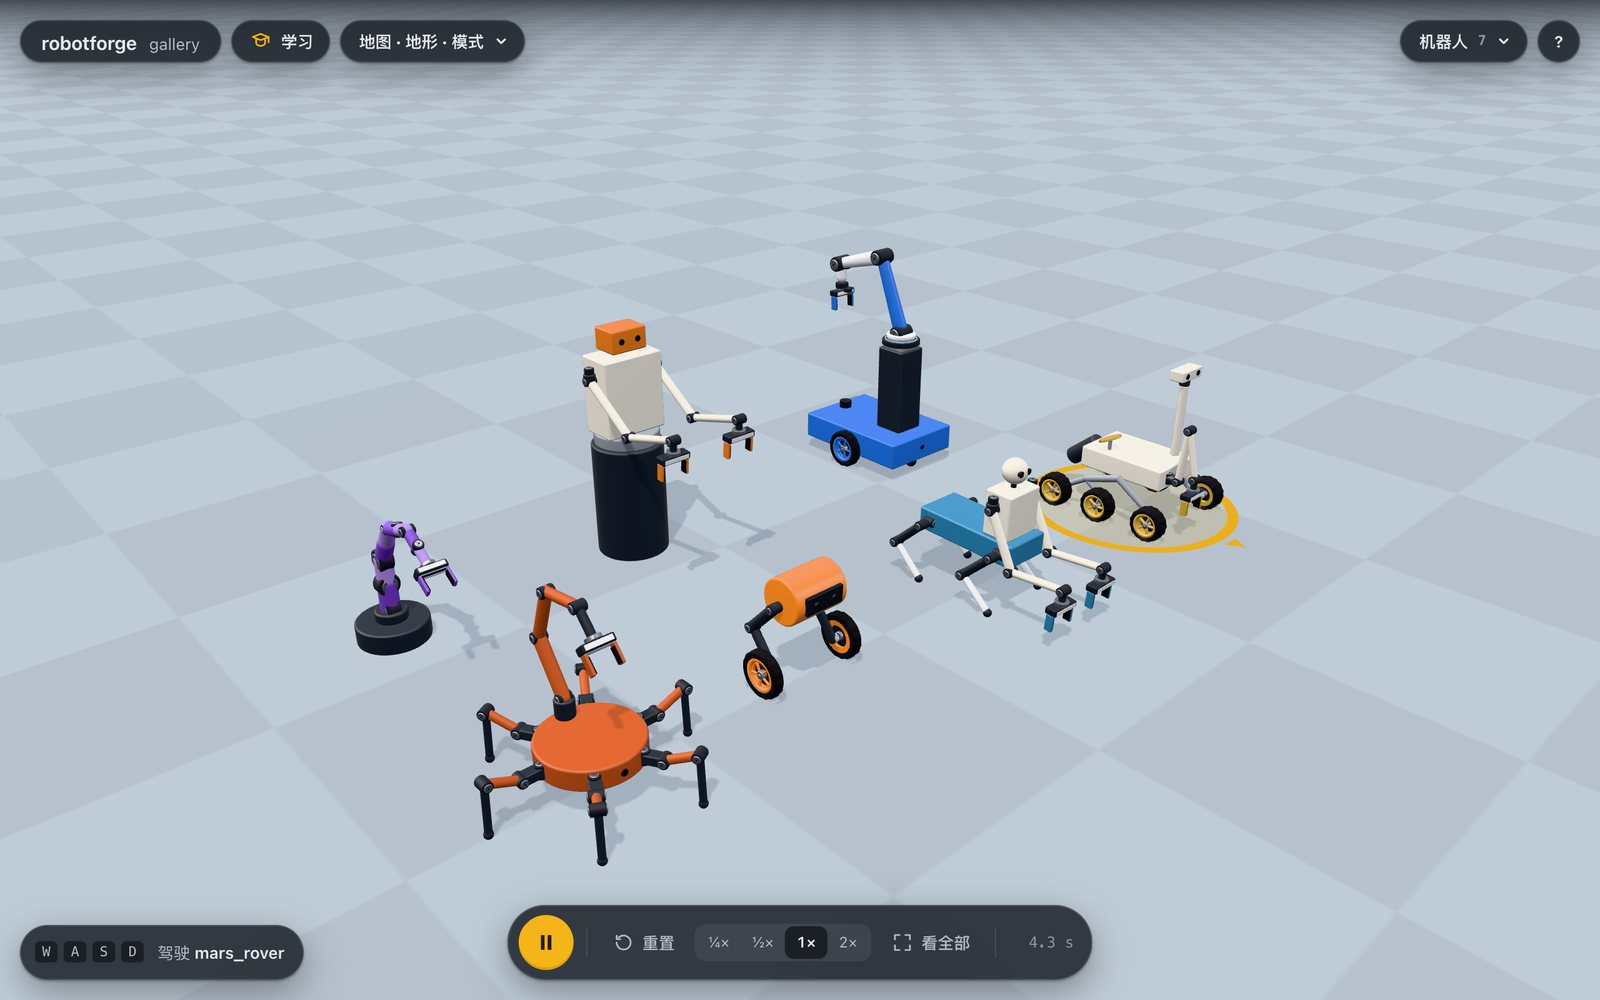
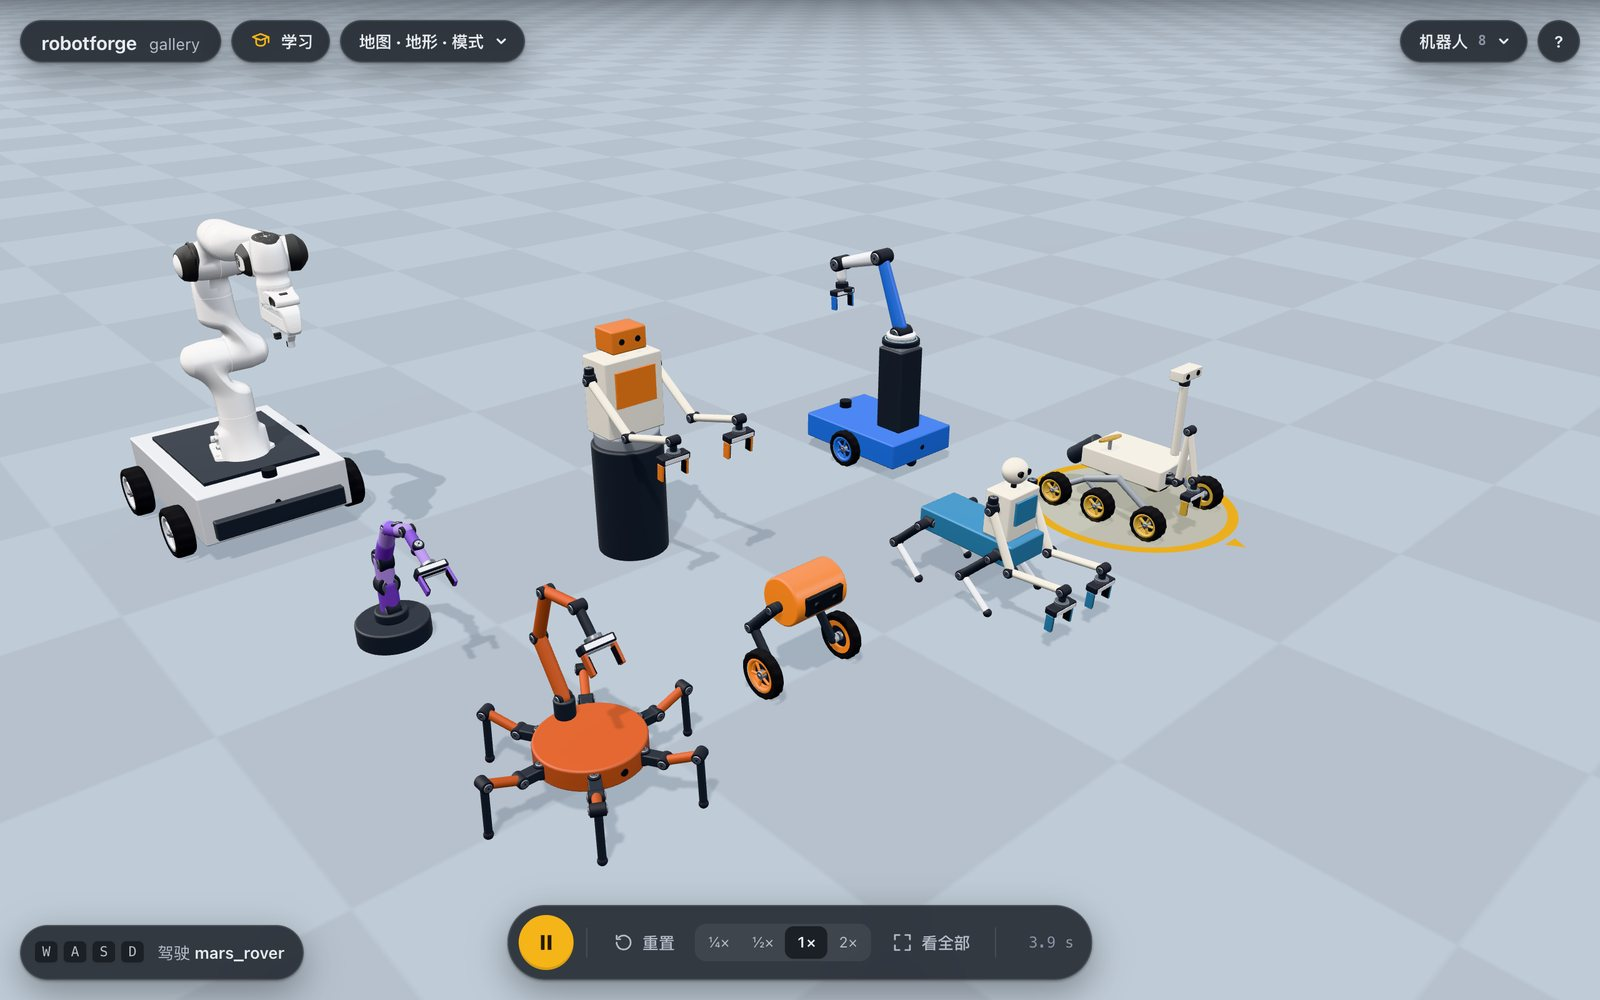
feat(gallery): a real Franka Panda on a heavy four-wheel base
The classic research mobile manipulator, spliced from a real arm and a built base: Menagerie's
Panda (Apache-2.0) bolted to a 40 kg four-wheel base with a bumper and a deck, whose geared
wheels hold it still while the 17 kg arm swings. It drives 1.65 m in 4 s at 0.4 m/s and picks a
cube off the floor onto a 0.45 m table, the only design that reaches both. Ten designs now; the
docs, the README and the overview picture say so.

diff --git a/src/robotforge/design/gallery/wheeled.py b/src/robotforge/design/gallery/wheeled.py
@@ -137,6 +137,54 @@ def lift_picker() -> dict[str, Any]:
     }
 
 
+def mobile_panda() -> dict[str, Any]:
+    """A research mobile manipulator: a real Franka Emika Panda (Menagerie, Apache-2.0) bolted to a heavy four-wheel
+    base, as labs mount it on a Ridgeback or a Husky.
+
+    The arm weighs about 17 kg and reaches 0.85 m, so the base is low and heavy (40 kg of batteries) and its geared
+    wheels hold it still while the arm swings. The Panda starts in Menagerie's own ready pose, gripper down in front.
+    """
+    wheel = {"shape": "wheel", "size": [0.16, 0.06], "actuator": {"model": "jga25", "gear": 4}}
+    return {
+        "color": "#d4d7dc",
+        "motor": "jga25",
+        "base": {
+            "shape": "box",
+            "size": [0.66, 0.46, 0.16],
+            "mass": 40.0,
+            "sensors": [
+                "imu",
+                {"type": "lidar", "at": [0.3, 0, 0.08], "rays": 24},
+                {"type": "camera", "at": "front"},
+            ],
+        },
+        "parts": [
+            {"name": "left_front_wheel", "at": [0.2, 0.27, -0.06], "mirror": True, **wheel},
+            {"name": "left_rear_wheel", "at": [-0.2, 0.27, -0.06], "mirror": True, **wheel},
+            {
+                "name": "bumper",
+                "at": "front",
+                "joint": "fixed",
+                "shape": "box",
+                "size": [0.03, 0.4, 0.06],
+                "direction": "forward",
+                "offset": [0, 0, -0.03],
+                "color": GRAPHITE,
+            },
+            {
+                "name": "deck",
+                "at": "top",
+                "joint": "fixed",
+                "shape": "box",
+                "size": [0.5, 0.36, 0.012],
+                "direction": "up",
+                "color": GRAPHITE,
+            },
+            {"name": "arm", "parent": "deck", "at": "end", "shift": [0.1, 0, 0], "robot": {"library": "panda"}},
+        ],
+    }
+
+
 def mars_rover() -> dict[str, Any]:
     """Six wheels on a rocker-bogie, like the Mars rovers: each side's rocker and bogie pivot freely, so all six wheels
     keep the ground over rocks and steps. A camera mast with a pan-tilt head and a small arm ride on the deck.
@@ -377,6 +425,12 @@ DESIGNS = [
         "driving base with a lifting column and an arm with a gripper: move drives it; pick_and_place raises the "
         "column as it needs to, so it picks off the floor or a table",
         lift_picker,
+    ),
+    Design(
+        "mobile_panda",
+        "a real Franka Emika Panda arm (MuJoCo Menagerie, downloaded on first use) on a heavy four-wheel base: "
+        "move drives it, move_arm and pick_and_place work mobile_panda/arm",
+        mobile_panda,
     ),
     Design(
         "mars_rover",

diff --git a/tests/test_gallery.py b/tests/test_gallery.py
@@ -186,6 +186,19 @@ def test_the_lift_picker_raises_its_column_to_move_a_cube_to_a_higher_table(pg):
     assert pg.behaviors.pose("picker")["position"][:2] == pytest.approx([0.0, 0.0], abs=0.02)  # the base held still
 
 
+def test_the_mobile_panda_drives_then_lifts_a_cube_off_the_floor_onto_a_table(pg):
+    pg.add_robot("mm", design="mobile_panda")
+    info = pg.behaviors.robots()[0]
+    assert info["kind"] == "rover" and info["arms"] == ["mm/arm"]
+    ahead, end = _moved(pg, "mm", 0.4, 3.0)
+    assert ahead > 1.0 and end["upright"]
+    x, y = end["position"][:2]
+    pg.add_object("cube", shape="box", size=[0.04, 0.04, 0.04], pos=[x + 0.62, y + 0.22])
+    pg.add_object("table", shape="table", size=[0.35, 0.35, 0.45], pos=[x + 0.75, y - 0.25], fixed=True)
+    _run(pg, 0.5)
+    assert _pick(pg, "mm/arm", "cube", "table")["success"]
+
+
 def test_the_centaur_walks_and_picks_with_one_hand(pg):
     pg.add_robot("centaur", design="centaur")
     info = pg.behaviors.robots()[0]

diff --git a/src/robotforge/design/builder/guide.py b/src/robotforge/design/builder/guide.py
@@ -87,8 +87,9 @@ def guide() -> dict[str, Any]:
         ),
         "designs": (
             "To start from something bigger: add_robot(name, design=...) adds a ready-made robot from the gallery "
-            "(list_templates lists them: a wheel-legged biped, a Mars rover, a centaur, a Go2 with an arm...) as "
-            "parts in this schema; show_world shows them, and add_part / update_part change them like any build."
+            "(list_templates lists them: a wheel-legged biped, a Mars rover, a centaur, a Go2 with an arm, a Panda "
+            "on a mobile base...) as parts in this schema; show_world shows them, and add_part / update_part change "
+            "them like any build."
         ),
         "checks": (
             "Each build is dropped onto a floor before it is saved: overlapping parts or parts in the floor are "

diff --git a/scripts/screenshots.py b/scripts/screenshots.py
@@ -323,6 +323,7 @@ def _gallery_line_up(pg: Any) -> None:
         ("wheel_biped", [0.0, -0.3]),
         ("scorpion", [0.0, -0.95]),
         ("lift_picker", [-0.9, 0.9]),
+        ("mobile_panda", [-2.0, -1.0]),
         ("twin_arm", [-0.9, -0.2]),
         ("tentacle", [-0.9, -1.0]),
     ):
@@ -338,6 +339,7 @@ GALLERY_SHOTS: list[tuple[str, Callable[[Any], None] | None, tuple[float, float,
     ("centaur", None, (0.9, -0.7, 0.45)),
     ("scorpion", None, (0.75, -0.6, 0.45)),
     ("go2_arm", None, (1.1, -0.85, 0.55)),
+    ("mobile_panda", None, (1.9, -1.45, 1.1)),
     ("twin_arm", _twin_table, (1.25, -0.9, 0.55)),
     ("tentacle", None, (0.95, -0.75, 0.45)),
 ]

diff --git a/docs/BUILDER.md b/docs/BUILDER.md
@@ -10,7 +10,7 @@ agent 先调用 `builder_guide` 读速查表，再用 `add_robot(name, build={..
 设计会作为零件写进 world.yaml，加进来以后它就是一个普通的零件机器人，可以用 `update_part`、`add_part`、`remove_part` 一块一块地改，例如 `update_part(robot="hopper", part="robot", changes={"color": "purple"})`。
 `list_templates` 会列出所有设计，每个一句话；`show_world` 能看到它的全部零件。
 
-![设计库里的七个机器人站在一起：火星车、半人马、轮腿双足、六足蝎子、升降拣货机器人、双臂工作台和触手](images/gallery.jpg)
+![设计库里的八个机器人站在一起：火星车、半人马、轮腿双足、六足蝎子、升降拣货机器人、背着 Panda 的移动底盘、双臂工作台和触手](images/gallery.jpg)
 
 | 设计 | 是什么 | 怎么用 | 实测（真实仿真） |
 |---|---|---|---|
@@ -18,13 +18,14 @@ agent 先调用 `builder_guide` 读速查表，再用 `add_robot(name, build={..
 | `wheel_dog` | 四条腿末端是驱动轮的机器狗 | `move` 像小车一样开；改腿的角度换姿势 | 0.4 m/s 开 3 秒前进 1.24 m |
 | `mars_rover` | 六轮摇臂转向架火星车，带摄像头桅杆和采样机械臂 | `move` 开；采样臂叫 `mars_rover/hand` | 翻过 6 cm 路沿，6 秒前进 1.76 m；把石块放进样品盒 |
 | `lift_picker` | 拣货机器人：小车、能升降的立柱和机械臂 | `move` 开；`pick_and_place` 会自己升降立柱 | 把方块从 0.45 m 的桌子放到 0.62 m 的桌子上，立柱升到 0.25 m，底盘纹丝不动 |
+| `mobile_panda` | 真实的 Franka Emika Panda 机械臂装在一台很重的四轮底盘上，像实验室里常见的移动操作平台 | `move` 开；机械臂叫 `mobile_panda/arm` | 0.4 m/s 开 4 秒前进 1.65 m；从地上捡起方块放到 0.45 m 的桌子上 |
 | `centaur` | 半人马：四条腿走四足步态，上身有头和两只带夹爪的手 | `move` 走；两只手叫 `centaur/left_hand`、`centaur/right_hand` | 0.3 m/s 走 4 秒前进 0.73 m；左手把方块放进盒子 |
 | `scorpion` | 蝎子：六足三角步态，尾巴是一条机械臂，末端是夹钳 | `move` 走；尾巴叫 `scorpion/claw` | 0.25 m/s 走 4 秒前进 1.10 m；尾巴绕过背把方块挪到一边 |
 | `go2_arm` | 真实的宇树 Go2 背着真实的 AgileX PiPER 机械臂（都来自 MuJoCo Menagerie，第一次用时下载） | `move` 走；机械臂叫 `go2_arm/arm` | 0.4 m/s 走 3 秒前进 1.26 m；把方块从一张桌子搬到另一张 |
 | `twin_arm` | 双臂工作台：带头的上身装在可转动的腰上，两只手各带夹爪 | 两只手叫 `twin_arm/left_hand`、`twin_arm/right_hand`；腰用 `set_controls` 手动转 | 两只手各把一个方块放进自己那边的托盘，腰一动不动 |
 | `tentacle` | 八节触手机械臂，上下、左右交替弯曲，末端是夹爪 | `move_arm`、`pick_and_place` | 把方块绕到身后放进盒子；`move_arm` 末端误差约 1 cm |
 
-`go2_arm` 用到的两个真实模型来自 MuJoCo Menagerie：Go2 是 BSD-3-Clause（Unitree Robotics），PiPER 是 MIT（AgileX Robotics），和机器人库里的一样，第一次使用时下载，不随 robotforge 发布。
+`go2_arm` 和 `mobile_panda` 用到的真实模型来自 MuJoCo Menagerie：Go2 是 BSD-3-Clause（Unitree Robotics），PiPER 是 MIT（AgileX Robotics），Panda 是 Apache-2.0（Franka Robotics），和机器人库里的一样，第一次使用时下载，不随 robotforge 发布。
 `lift_picker` 和 `go2_arm` 的机械臂出场时就折叠收好，靠的是 `robot` 字段的 `home`。
 
 ## 基本概念

diff --git a/README.md b/README.md
@@ -8,7 +8,7 @@
 ![公园里，宇树 Go2 和我们的模板机器狗沿着小路往前走](docs/images/hero.jpg)
 
 - 搭：机械臂、机器狗、小车、人形机器人、倒立摆，或者宇树 Go2、宇树 G1、Franka Panda、AgileX PiPER 这样的真实机器人。
-- 挑：设计库里有九个现成的奇特机器人，轮腿双足、火星车、半人马、背着 PiPER 的 Go2、六足蝎子、触手等，一句话加进来再一块一块地改（见 [零件拼装](docs/BUILDER.md)）。
+- 挑：设计库里有十个现成的奇特机器人，轮腿双足、火星车、半人马、背着 PiPER 的 Go2、装着 Panda 的移动底盘、六足蝎子、触手等，一句话加进来再一块一块地改（见 [零件拼装](docs/BUILDER.md)）。
 - 开：导入你自己的 URDF、xacro、MJCF 或网格文件，自动体检修复。
 - 动：走路、开车、抓取放置、摆姿势，或者写一段自己的 Python 脚本。
 - 学：查看器里有 11 节互动课、4 个调参台、2 场真机对比和 3 个挑战，每一步先猜再试；同一个任务还能换 PD、LQR、MPC、强化学习比一比。
